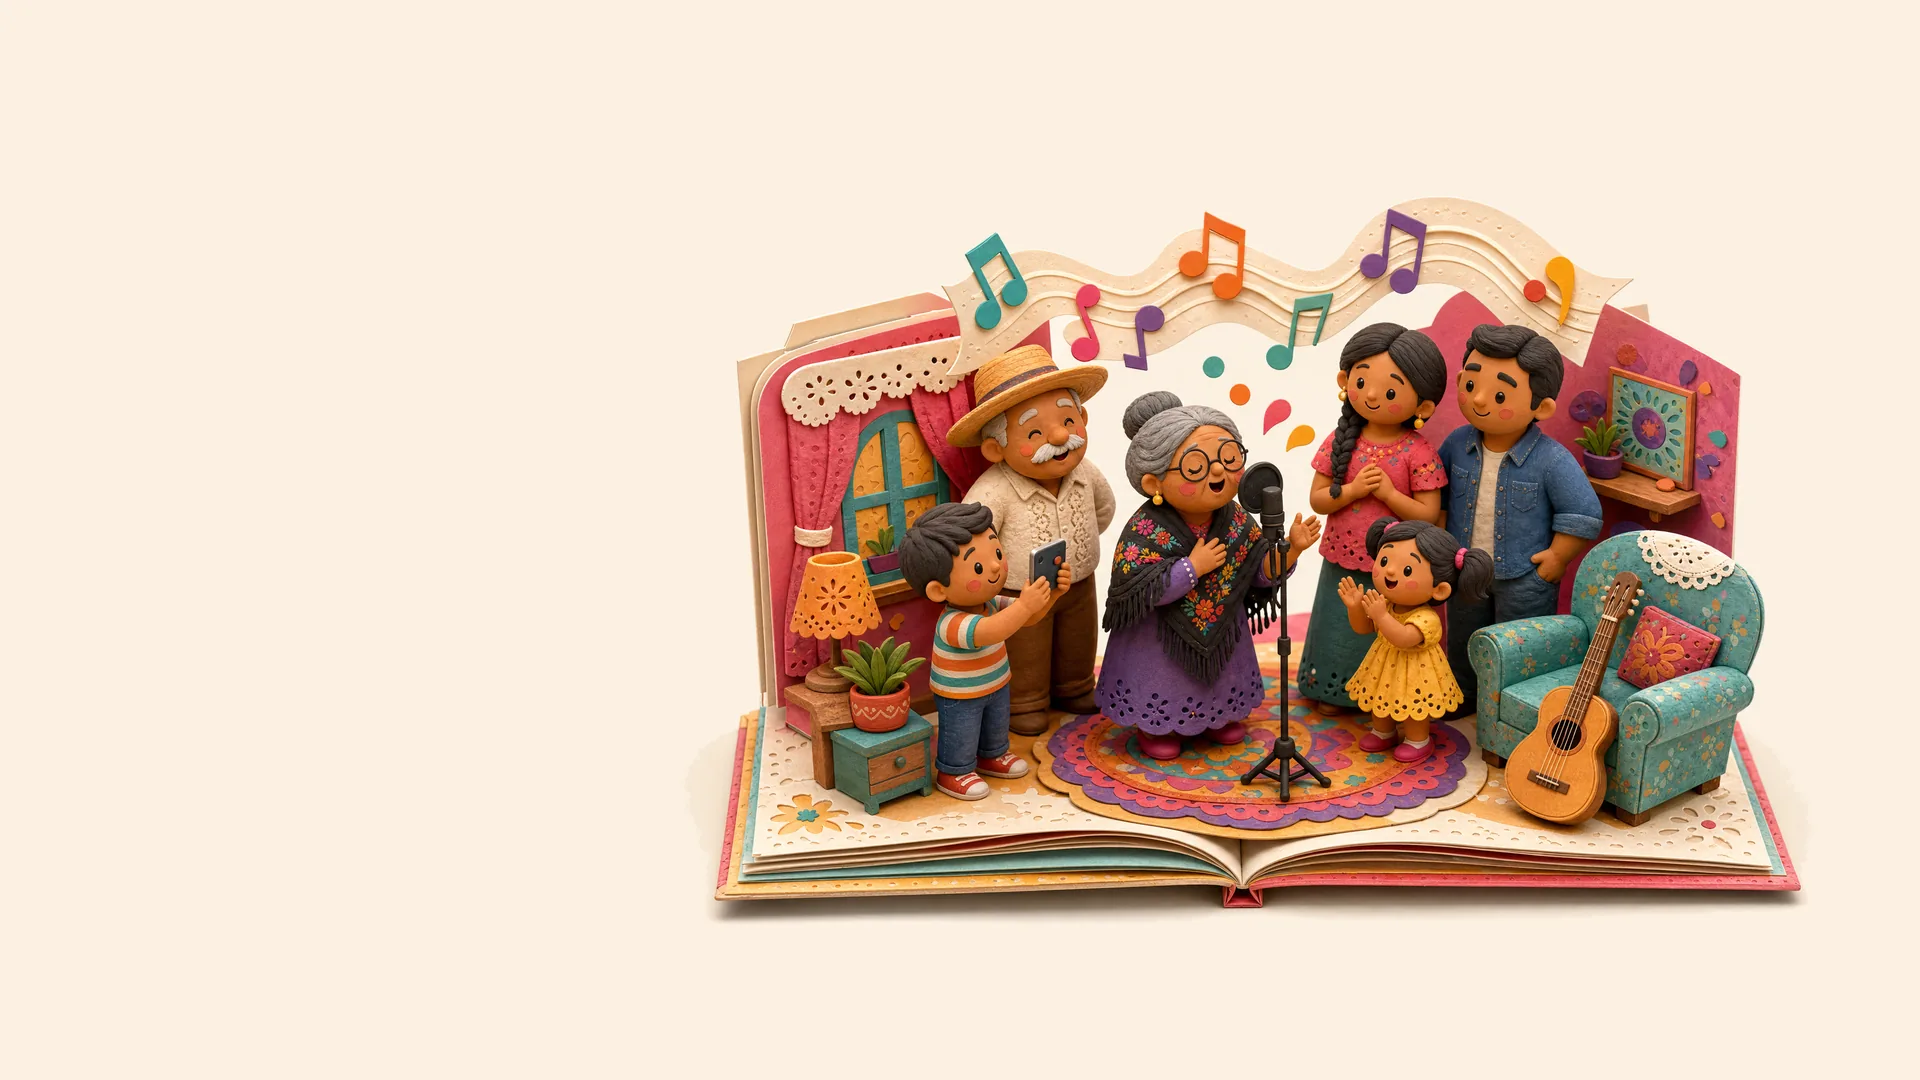
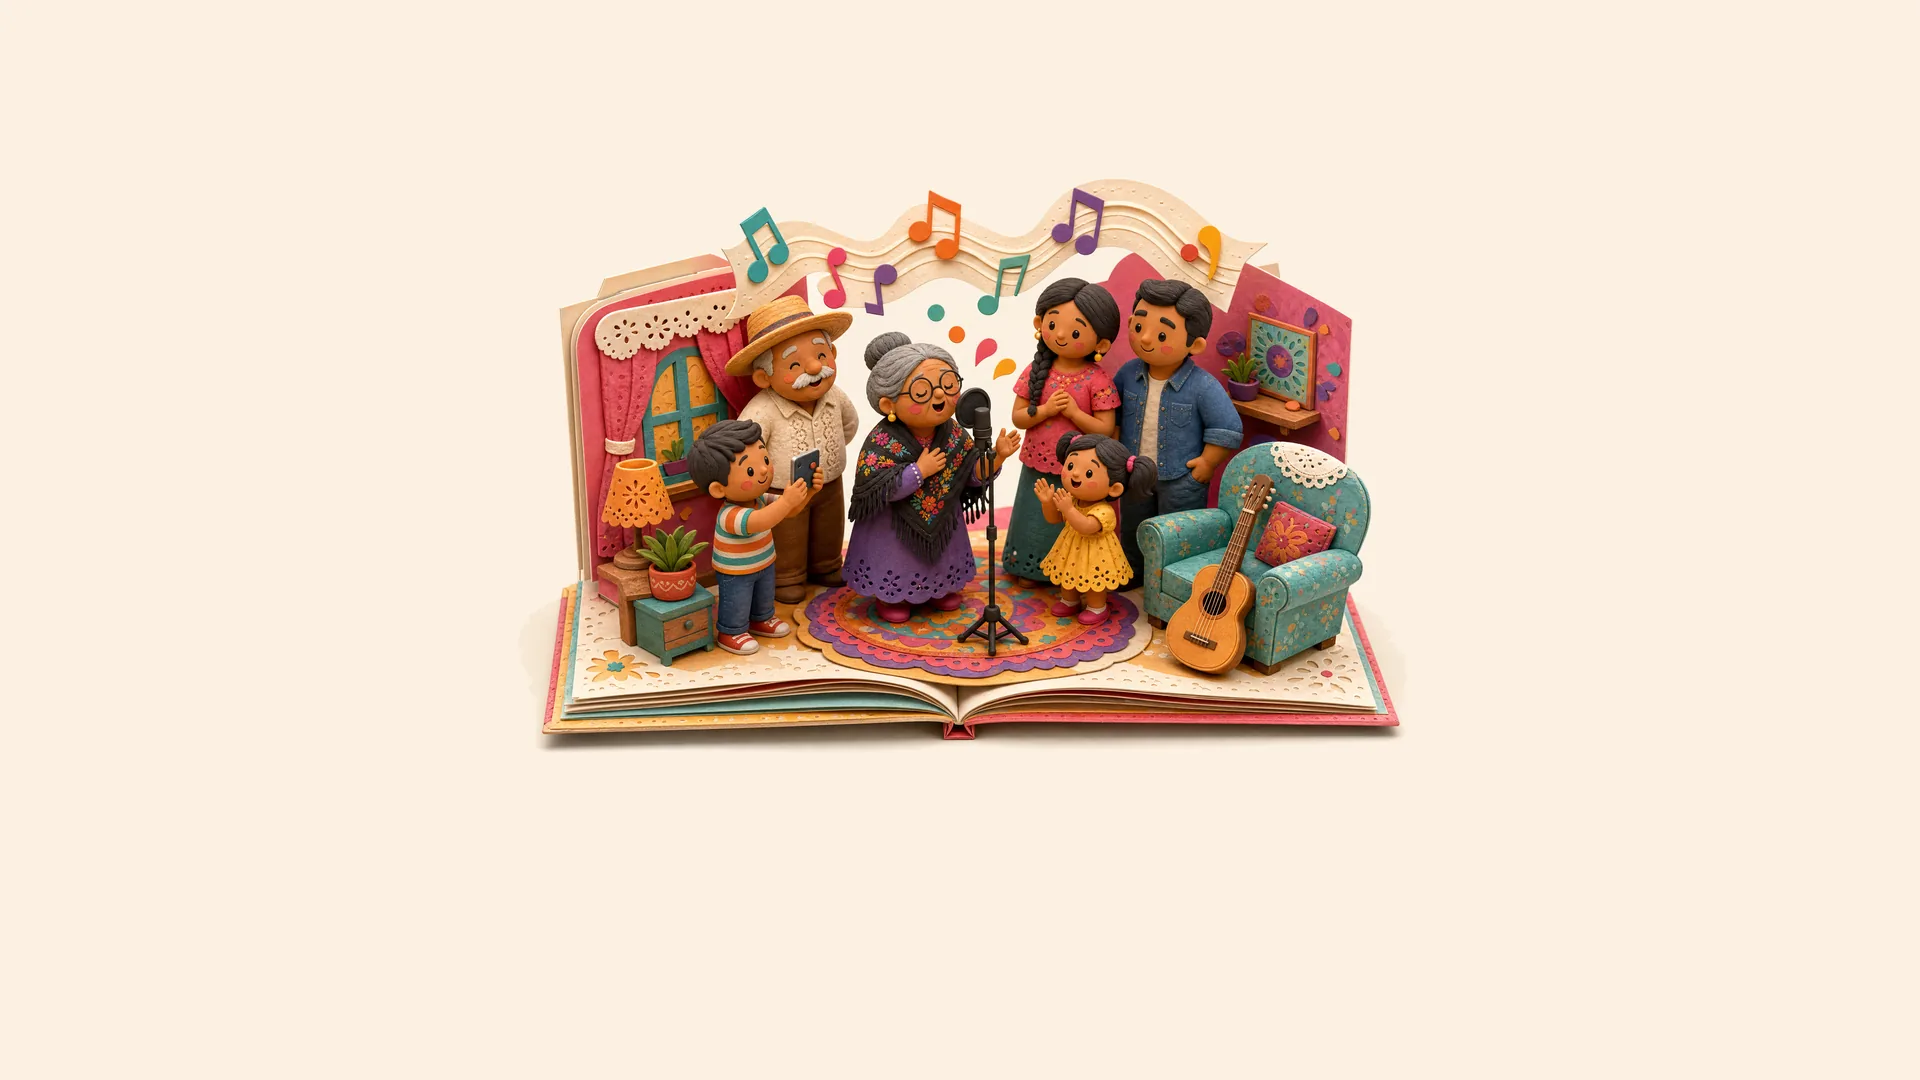
feat: make the pop-up book the page's central axis
- Canvases centre the book (make-canvas.mjs --align center, 60% height,
  raised) so every scene shares one framing and video page turns can hand
  off between identical compositions.
- Scenes and clips fill the screen centred; a compact copy card sits at the
  bottom left and only grazes the book on 16:10 screens.
- Engine option `stillOffset` pins the stills' horizontal nudge (0 here).
- Phones show the whole book in the top half, feathered into the paper.

diff --git a/src/app/globals.css b/src/app/globals.css
@@ -53,19 +53,22 @@
   display: none;
 }
 
-/* Full-bleed scenes, like the scroll-world demo. Posters and clips are 16:9
-   canvases with the book on the right (scripts/landing/make-canvas.mjs), so
-   anchoring right keeps the book clear of the copy card on any aspect ratio.
-   Leaf faces share the class, so page turns hand off the same framing. */
+/* Full-bleed scenes, like the scroll-world demo. The book is the page's central
+   axis: posters and clips are 16:9 canvases with the book centred
+   (scripts/landing/make-canvas.mjs), so the still zoom and the video camera both
+   head into it. Leaf faces share the class, so page turns keep the framing.
+   On phones the scene takes the top half, feathered into the paper. */
 .sw-scene__still,
 .sw-scene__video {
   object-fit: cover;
-  object-position: right center;
+  object-position: center;
 }
 @media (max-width: 860px) {
   .sw-scene__still,
   .sw-scene__video {
-    object-position: 72% 30%;
+    top: 64px;
+    height: 50%;
+    mask-image: linear-gradient(to bottom, #000 80%, transparent);
   }
 }
 
@@ -136,14 +139,17 @@
   scale: 0.98;
 }
 
-/* Scene copy: a flat translucent paper card instead of the gradient scrim. */
+/* Scene copy: a compact flat translucent paper card, bottom left, so the centred
+   book stays the focus (it only grazes the book's lower left corner). */
 .sw-copylayer::before {
   display: none;
 }
 .sw-copy {
-  translate: 0 -50%;
-  width: min(42vw, 460px);
-  padding: 32px;
+  top: auto;
+  bottom: 40px;
+  translate: none;
+  width: min(30vw, 340px);
+  padding: 24px;
   border: 1px solid color-mix(in srgb, var(--ink) 8%, transparent);
   border-radius: 24px;
   background: color-mix(in srgb, var(--paper) 78%, transparent);
@@ -161,15 +167,15 @@
 }
 .sw-copy__title {
   margin-top: 8px;
-  font-size: 36px;
-  line-height: 40px;
+  font-size: 30px;
+  line-height: 36px;
   text-shadow: none;
   text-wrap: balance;
 }
 /* Hero heading: the one sanctioned text gradient (landing-page-design B5). */
 .sw-copy:first-child .sw-copy__title {
-  font-size: 48px;
-  line-height: 1;
+  font-size: 36px;
+  line-height: 40px;
   background: linear-gradient(90deg, #000000, #666666);
   background-clip: text;
   -webkit-background-clip: text;
@@ -177,14 +183,14 @@
 }
 .sw-copy__body {
   max-width: none;
-  margin-top: 16px;
-  font-size: 18px;
-  line-height: 28px;
+  margin-top: 12px;
+  font-size: 16px;
+  line-height: 24px;
   text-shadow: none;
   text-wrap: pretty;
 }
 .sw-copy__tags {
-  margin-top: 24px;
+  margin-top: 16px;
 }
 .sw-copy__tags li {
   padding: 4px 12px;
@@ -281,22 +287,14 @@
   .sw-topbar {
     top: 16px;
   }
+  /* Clear the home indicator and collapsing URL bar, like the engine default. */
   .sw-copy {
-    translate: none;
+    bottom: calc(64px + env(safe-area-inset-bottom));
     width: auto;
-    padding: 24px;
-  }
-  .sw-copy__title {
-    font-size: 30px;
-    line-height: 36px;
   }
   .sw-copy:first-child .sw-copy__title {
-    font-size: 36px;
-    line-height: 40px;
-  }
-  .sw-copy__body {
-    font-size: 16px;
-    line-height: 24px;
+    font-size: 30px;
+    line-height: 36px;
   }
 }
 

diff --git a/src/components/landing/scrub-engine.js b/src/components/landing/scrub-engine.js
@@ -223,7 +223,9 @@ function mountScrollWorld(container, config) {
   function layout() {
     vh = window.innerHeight;
     laidOutW = window.innerWidth;
-    stageX = window.innerWidth > 860 ? 4 : 0;
+    // Horizontal nudge of the stills in vw: the engine default leans them right on
+    // desktop (+2vw) and left on phones (-2vw); `stillOffset` pins it instead.
+    stageX = config.stillOffset != null ? config.stillOffset + 2 : (window.innerWidth > 860 ? 4 : 0);
     let off = 0;
     SEGMENTS.forEach(s => { s.start = off * vh; off += s.w; s.end = off * vh; });
     totalW = off;

diff --git a/src/components/landing/scrub-engine.d.ts b/src/components/landing/scrub-engine.d.ts
@@ -36,6 +36,8 @@ export interface ScrollWorldConfig {
   stillTransition?: "crossfade" | "page";
   /** Viewport heights of scroll per page turn. Default 0.9. */
   pageScroll?: number;
+  /** Horizontal nudge of the stills in vw. Default: +2 on desktop, -2 on phones. */
+  stillOffset?: number;
   /** Ignore prefers-reduced-motion. For development previews only. */
   forceMotion?: boolean;
   sections: ScrollWorldSection[];

diff --git a/src/components/landing/diary-world.ts b/src/components/landing/diary-world.ts
@@ -21,6 +21,7 @@ export const diaryWorld: ScrollWorldConfig = {
   hint: "Desliza para abrir el diario",
   atmosphere: false,
   stillTransition: "page",
+  stillOffset: 0, // the book is the page's central axis
   pageScroll: 1,
   diveScroll: 1.3,
   connScroll: 0.9,
